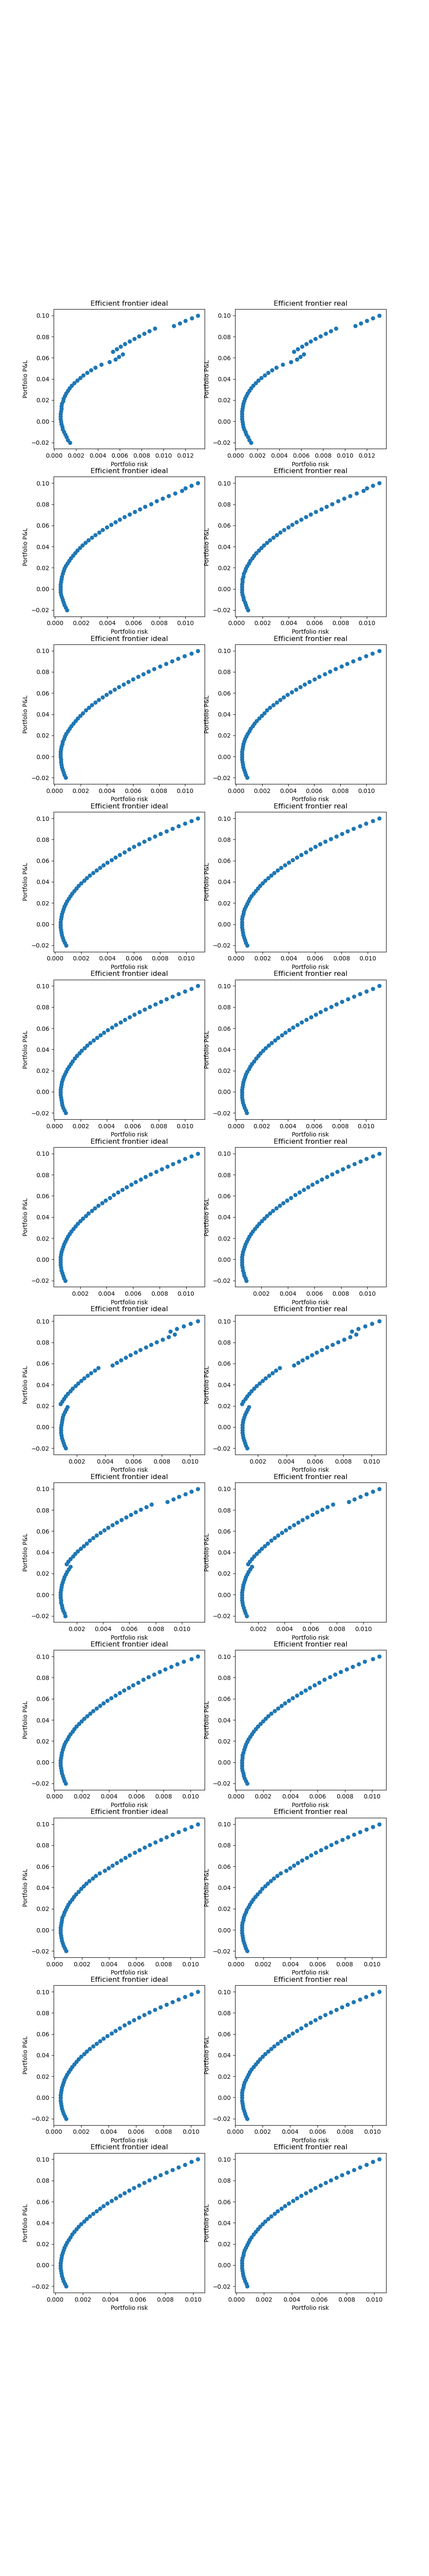
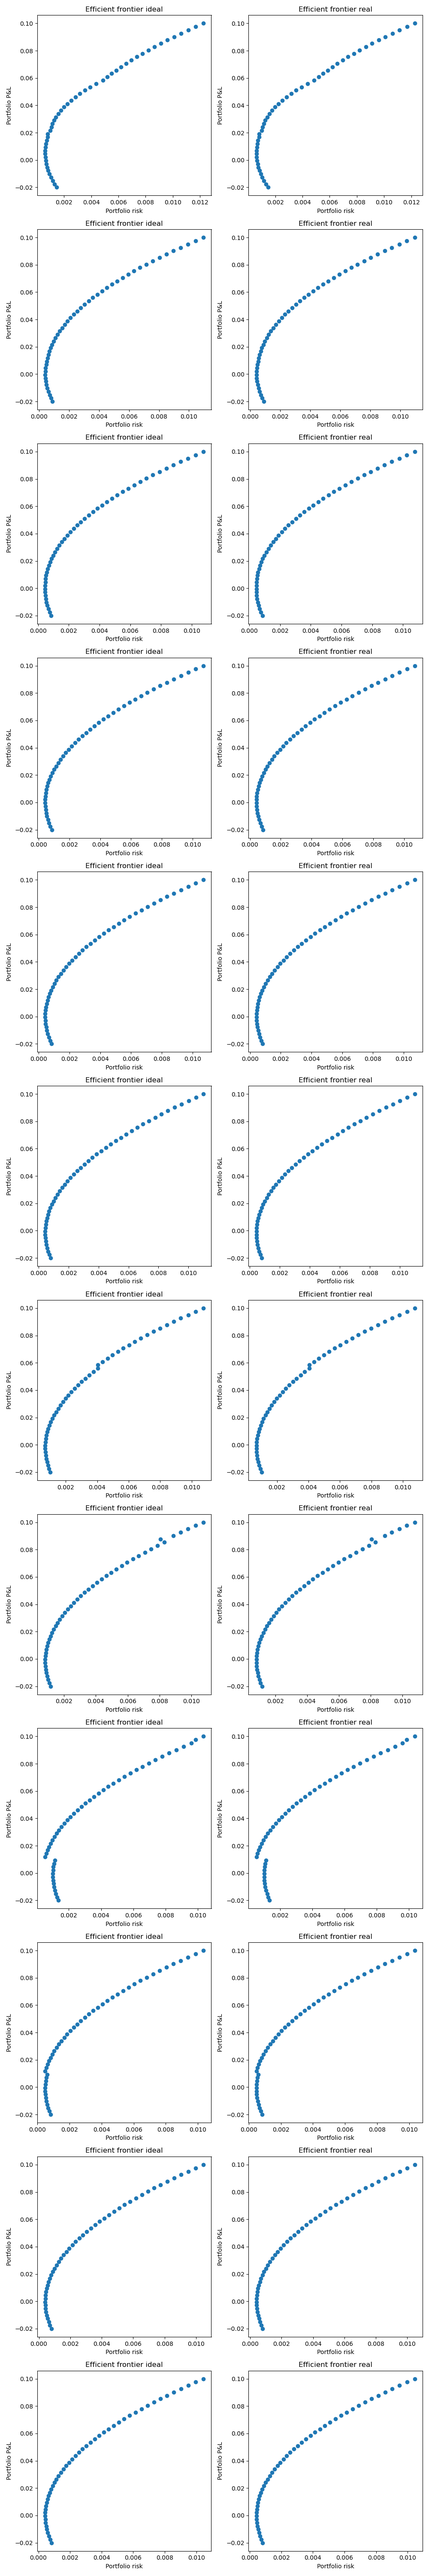
Pick expected return with optimal sharpe

diff --git a/optimisation/mv_script.py b/optimisation/mv_script.py
@@ -182,7 +182,20 @@ for index in range(len(signature_list)):
     axs[index, 1].set_ylabel('Portfolio P&L')
     axs[index, 1].set_title('Efficient frontier real')
 
-    res = ellstars[index]
+    sharpe_list = []
+    for i in range(len(ellstars)):
+        res = ellstars[i]
+        var = portfolio_variance(res, vc)
+        ret = portfolio_exp_ret(mw, res)
+        rfr = 0
+        sharpe = (ret - rfr) / np.sqrt(var)
+        sharpe_list.append(sharpe)
+
+    max_sharpe = np.max(sharpe_list)
+    argmax_sharpe = np.argmax(sharpe_list)
+    print('Max sharpe ratio:', max_sharpe, 'at index:', argmax_sharpe)
+
+    res = ellstars[argmax_sharpe]
     # print(len(res.x), A.shape)
     asset_weights = A @ res.x
     print('weights of each asset:', asset_weights) 
@@ -195,4 +208,5 @@ for index in range(len(signature_list)):
         print("PASSED! Weights sum to 1!")
 
 print("Time taken for all iterations:", time.time() - start)
+fig.tight_layout()
 fig.savefig('efficient_frontier.png')
